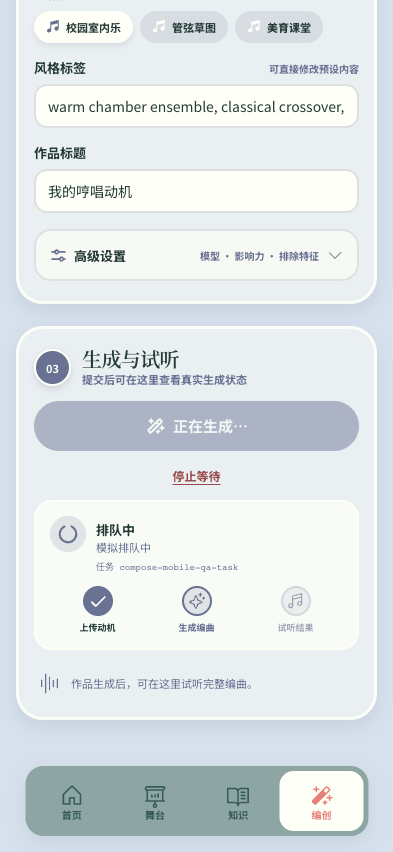
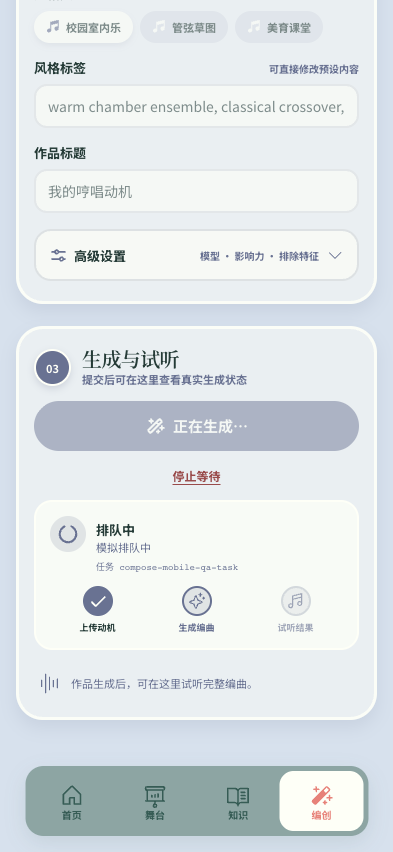
fix: harden compose recording and generation state

diff --git a/src/components/compose/ComposeAudioPreview.tsx b/src/components/compose/ComposeAudioPreview.tsx
@@ -1,16 +1,17 @@
 import { ArrowCounterClockwise, Pause, Play, Waveform } from '@phosphor-icons/react';
 import type { CSSProperties } from 'react';
-import { useEffect, useRef, useState } from 'react';
+import { useEffect, useLayoutEffect, useRef, useState } from 'react';
 
 type Props = {
   file: File;
   sourceLabel: string;
   url: string;
-  disabled: boolean;
+  playbackDisabled: boolean;
+  replaceDisabled: boolean;
   onClear: () => void;
 };
 
-export function ComposeAudioPreview({ file, sourceLabel, url, disabled, onClear }: Props) {
+export function ComposeAudioPreview({ file, sourceLabel, url, playbackDisabled, replaceDisabled, onClear }: Props) {
   const audioRef = useRef<HTMLAudioElement>(null);
   const [duration, setDuration] = useState(0);
   const [currentTime, setCurrentTime] = useState(0);
@@ -31,7 +32,14 @@ export function ComposeAudioPreview({ file, sourceLabel, url, disabled, onClear 
     };
   }, [url]);
 
+  useLayoutEffect(() => {
+    if (!playbackDisabled) return;
+    audioRef.current?.pause();
+    setIsPlaying(false);
+  }, [playbackDisabled]);
+
   async function togglePlayback() {
+    if (playbackDisabled) return;
     const audio = audioRef.current;
     if (!audio) return;
 
@@ -60,8 +68,8 @@ export function ComposeAudioPreview({ file, sourceLabel, url, disabled, onClear 
         <button
           aria-label="重新录制或替换音频"
           className="cm-audio-preview__replace"
-          disabled={disabled}
-          onClick={onClear}
+          disabled={replaceDisabled}
+          onClick={() => { if (!replaceDisabled) onClear(); }}
           type="button"
         >
           <ArrowCounterClockwise size={19} />
@@ -76,7 +84,14 @@ export function ComposeAudioPreview({ file, sourceLabel, url, disabled, onClear 
         onEnded={() => setIsPlaying(false)}
         onError={() => setPreviewError('当前音频无法在浏览器中试听，请尝试替换文件。')}
         onPause={() => setIsPlaying(false)}
-        onPlay={() => setIsPlaying(true)}
+        onPlay={(event) => {
+          if (playbackDisabled) {
+            event.currentTarget.pause();
+            setIsPlaying(false);
+            return;
+          }
+          setIsPlaying(true);
+        }}
         onTimeUpdate={(event) => setCurrentTime(event.currentTarget.currentTime)}
         preload="metadata"
         src={url}
@@ -85,6 +100,7 @@ export function ComposeAudioPreview({ file, sourceLabel, url, disabled, onClear 
         <button
           aria-label={isPlaying ? '暂停当前动机' : '播放当前动机'}
           className="cm-audio-preview__play"
+          disabled={playbackDisabled}
           onClick={() => void togglePlayback()}
           type="button"
         >
@@ -92,10 +108,11 @@ export function ComposeAudioPreview({ file, sourceLabel, url, disabled, onClear 
         </button>
         <input
           aria-label="当前动机播放进度"
-          disabled={!duration}
+          disabled={playbackDisabled || !duration}
           max={duration || 1}
           min="0"
           onChange={(event) => {
+            if (playbackDisabled || !duration) return;
             const next = Number(event.target.value);
             if (audioRef.current) audioRef.current.currentTime = next;
             setCurrentTime(next);

diff --git a/src/components/compose/ComposeAdvancedControls.tsx b/src/components/compose/ComposeAdvancedControls.tsx
@@ -3,6 +3,7 @@ import type { CSSProperties } from 'react';
 import { MODEL_OPTIONS } from './composeConfig';
 
 type Props = {
+  disabled?: boolean;
   model: string;
   instrumental: boolean;
   audioWeight: number;
@@ -16,6 +17,7 @@ type Props = {
 };
 
 export function ComposeAdvancedControls({
+  disabled = false,
   model,
   instrumental,
   audioWeight,
@@ -38,7 +40,7 @@ export function ComposeAdvancedControls({
         <div className="cm-advanced__row">
           <label className="cm-field cm-field--model">
             <span className="cm-field__label">模型</span>
-            <select onChange={(event) => onModelChange(event.target.value)} value={model}>
+            <select disabled={disabled} onChange={(event) => onModelChange(event.target.value)} value={model}>
               {MODEL_OPTIONS.map((option) => (
                 <option key={option.value} value={option.value}>{option.label}</option>
               ))}
@@ -47,6 +49,7 @@ export function ComposeAdvancedControls({
           <label className="cm-switch">
             <span>生成纯音乐</span>
             <input
+              disabled={disabled}
               checked={instrumental}
               onChange={(event) => onInstrumentalChange(event.target.checked)}
               role="switch"
@@ -56,12 +59,13 @@ export function ComposeAdvancedControls({
           </label>
         </div>
         <div className="cm-advanced__sliders">
-          <WeightSlider label="动机影响" value={audioWeight} onChange={onAudioWeightChange} />
-          <WeightSlider label="风格影响" value={styleWeight} onChange={onStyleWeightChange} />
+          <WeightSlider disabled={disabled} label="动机影响" value={audioWeight} onChange={onAudioWeightChange} />
+          <WeightSlider disabled={disabled} label="风格影响" value={styleWeight} onChange={onStyleWeightChange} />
         </div>
         <label className="cm-field">
           <span className="cm-field__label">Negative tags <small>减少不希望出现的音乐特征</small></span>
           <input
+            disabled={disabled}
             onChange={(event) => onNegativeTagsChange(event.target.value)}
             placeholder="例如：noisy recording, low quality"
             type="text"
@@ -74,10 +78,12 @@ export function ComposeAdvancedControls({
 }
 
 function WeightSlider({
+  disabled,
   label,
   value,
   onChange,
 }: {
+  disabled: boolean;
   label: string;
   value: number;
   onChange: (value: number) => void;
@@ -86,6 +92,7 @@ function WeightSlider({
     <label className="cm-weight">
       <span>{label} <strong>{Math.round(value * 100)}%</strong></span>
       <input
+        disabled={disabled}
         max="1"
         min="0.1"
         onChange={(event) => onChange(Number(event.target.value))}

diff --git a/src/pages/MusicComposePage.tsx b/src/pages/MusicComposePage.tsx
@@ -73,6 +73,10 @@ export function MusicComposePage() {
   }, []);
 
   function handleFileUpload(event: ChangeEvent<HTMLInputElement>) {
+    if (isGenerating || (recorderBusy && audioFile)) {
+      event.currentTarget.value = '';
+      return;
+    }
     const file = event.currentTarget.files?.[0];
 
     if (file && applyAudioFile(file, file.name)) {
@@ -111,6 +115,7 @@ export function MusicComposePage() {
   }
 
   function clearAudio() {
+    if (isGenerating || recorderBusy) return;
     if (previewUrlRef.current) {
       URL.revokeObjectURL(previewUrlRef.current);
       previewUrlRef.current = '';
@@ -240,6 +245,7 @@ export function MusicComposePage() {
           <ComposeRecorder
             canRecord={canRecord}
             disabled={isGenerating}
+            uploadDisabled={recorderBusy && Boolean(audioFile)}
             micError={micError}
             recordingState={recordingState}
             onRecord={() => { setFormError(''); void startRecording(); }}
@@ -248,7 +254,8 @@ export function MusicComposePage() {
           />
           {audioFile && audioPreviewUrl ? (
             <ComposeAudioPreview
-              disabled={isGenerating || recorderBusy}
+              playbackDisabled={recorderBusy}
+              replaceDisabled={isGenerating || recorderBusy}
               file={audioFile}
               onClear={clearAudio}
               sourceLabel={audioSourceLabel}
@@ -260,6 +267,7 @@ export function MusicComposePage() {
         <section className="cm-section" aria-labelledby="cm-prompt-heading">
           <StepHeading number="02" title="描述音乐" description="让旋律拥有自己的情绪与音色" id="cm-prompt-heading" />
           <ComposePromptPanel
+            disabled={isGenerating}
             onPromptChange={(value) => { setPrompt(value); setFormError(''); }}
             onStyleChange={setStyle}
             onTitleChange={setTitle}
@@ -268,6 +276,7 @@ export function MusicComposePage() {
             title={title}
           />
           <ComposeAdvancedControls
+            disabled={isGenerating}
             audioWeight={audioWeight}
             instrumental={instrumental}
             model={model}

diff --git a/src/components/compose/ComposePromptPanel.tsx b/src/components/compose/ComposePromptPanel.tsx
@@ -2,6 +2,7 @@ import { MusicNotes } from '@phosphor-icons/react';
 import { STYLE_PRESETS } from './composeConfig';
 
 type Props = {
+  disabled?: boolean;
   prompt: string;
   style: string;
   title: string;
@@ -11,6 +12,7 @@ type Props = {
 };
 
 export function ComposePromptPanel({
+  disabled = false,
   prompt,
   style,
   title,
@@ -23,6 +25,7 @@ export function ComposePromptPanel({
       <label className="cm-field cm-field--prompt">
         <span className="cm-field__label">Prompt <small>用文字描述想听到的作品</small></span>
         <textarea
+          disabled={disabled}
           onChange={(event) => onPromptChange(event.target.value)}
           placeholder="例如：把这段哼唱发展成温暖的校园室内乐，保留旋律轮廓，加入钢琴与弦乐。"
           rows={5}
@@ -34,6 +37,7 @@ export function ComposePromptPanel({
         <div className="cm-presets__list" aria-label="风格预设">
           {STYLE_PRESETS.map((preset) => (
             <button
+              disabled={disabled}
               aria-pressed={style === preset.value}
               className={`cm-preset${style === preset.value ? ' is-selected' : ''}`}
               key={preset.id}
@@ -49,6 +53,7 @@ export function ComposePromptPanel({
       <label className="cm-field">
         <span className="cm-field__label">风格标签 <small>可直接修改预设内容</small></span>
         <input
+          disabled={disabled}
           onChange={(event) => onStyleChange(event.target.value)}
           placeholder="例如：chamber ensemble, piano and strings"
           type="text"
@@ -58,6 +63,7 @@ export function ComposePromptPanel({
       <label className="cm-field">
         <span className="cm-field__label">作品标题</span>
         <input
+          disabled={disabled}
           onChange={(event) => onTitleChange(event.target.value)}
           placeholder="例如：开放日主题动机"
           type="text"

diff --git a/src/components/compose/ComposeRecorder.tsx b/src/components/compose/ComposeRecorder.tsx
@@ -6,6 +6,7 @@ import type { RecordingState } from './useComposeRecorder';
 type Props = {
   canRecord: boolean;
   disabled: boolean;
+  uploadDisabled?: boolean;
   micError: string;
   recordingState: RecordingState;
   onRecord: () => void;
@@ -16,6 +17,7 @@ type Props = {
 export function ComposeRecorder({
   canRecord,
   disabled,
+  uploadDisabled = false,
   micError,
   recordingState,
   onRecord,
@@ -26,7 +28,7 @@ export function ComposeRecorder({
   const isRecording = recordingState === 'recording';
   const isStopping = recordingState === 'stopping';
   const isRequesting = recordingState === 'requesting';
-  const uploadDisabled = disabled || isRecording || isStopping;
+  const uploadLocked = disabled || uploadDisabled || isRecording || isStopping;
 
   useEffect(() => {
     if (!isRecording) {
@@ -84,13 +86,13 @@ export function ComposeRecorder({
           >
             {isRecording ? '停止录音' : isStopping ? '正在保存录音…' : isRequesting ? '等待授权…' : '录制哼唱'}
           </button>
-          <label className={`cm-recorder__upload${uploadDisabled ? ' is-disabled' : ''}`}>
+          <label className={`cm-recorder__upload${uploadLocked ? ' is-disabled' : ''}`}>
             <UploadSimple size={18} weight="bold" aria-hidden="true" />
             <span>上传音频</span>
             <input
               accept="audio/*"
               aria-label="上传音频"
-              disabled={uploadDisabled}
+              disabled={uploadLocked}
               onChange={onUpload}
               type="file"
             />

diff --git a/src/styles/compose-mobile.css b/src/styles/compose-mobile.css
@@ -393,6 +393,12 @@
 .cm-audio-preview__player input::-moz-range-thumb { width: 13px; height: 13px; border: 2px solid var(--paper); border-radius: 50%; background: var(--coral); }
 .cm-audio-preview__player input::-moz-range-thumb { background: var(--compose-primary); }
 
+.cm-audio-preview__play:disabled,
+.cm-audio-preview__player input:disabled,
+.cm-prompt-panel :disabled,
+.cm-advanced :disabled,
+.cm-switch:has(input:disabled) { opacity: 0.55; cursor: default; }
+
 .cm-error { display: flex; flex-wrap: wrap; gap: 4px; padding: 9px 11px; border: 1px solid rgba(153, 75, 75, 0.22); border-radius: 12px; background: rgba(254, 255, 247, 0.93); color: var(--coral-dark); font-size: 11px; line-height: 1.5; }
 .cm-error strong { color: var(--coral-dark); }
 .cm-section--generate { gap: 13px; }

diff --git a/src/components/compose/useComposeRecorder.ts b/src/components/compose/useComposeRecorder.ts
@@ -1,4 +1,5 @@
 import { useEffect, useRef, useState } from 'react';
+import { flushSync } from 'react-dom';
 
 export type RecordingState =
   | 'idle'
@@ -61,7 +62,8 @@ export function useComposeRecorder(onRecorded: (file: File) => boolean) {
 
     const token = ++requestTokenRef.current;
     setMicError('');
-    setRecordingState('requesting');
+    // Commit busy controls and the preview's pause before requesting microphone access.
+    flushSync(() => setRecordingState('requesting'));
 
     try {
       const stream = await navigator.mediaDevices.getUserMedia({ audio: true });
